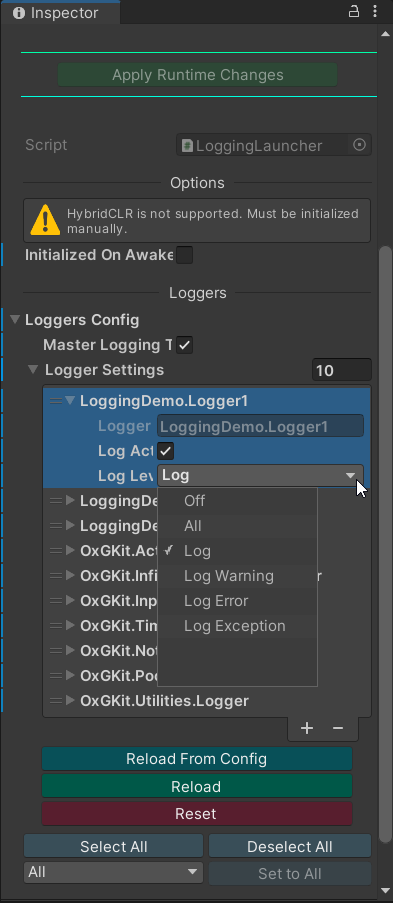
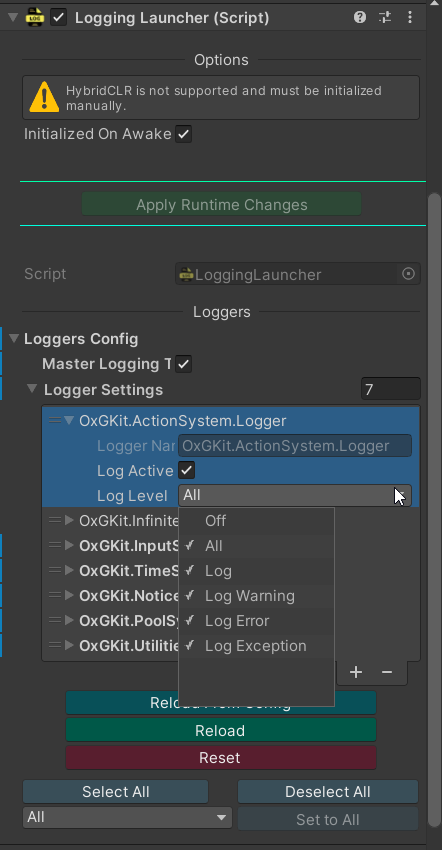
modified logging launcher editor window

diff --git a/Assets/OxGKit/LoggingSystem/Scripts/Editor/EditorWindow/LoggingLauncherEditor.cs b/Assets/OxGKit/LoggingSystem/Scripts/Editor/EditorWindow/LoggingLauncherEditor.cs
@@ -1,4 +1,5 @@
-using System;
+using DG.DemiEditor;
+using System;
 using UnityEditor;
 using UnityEngine;
 
@@ -53,10 +54,32 @@ namespace OxGKit.LoggingSystem.Editor
         {
             var loggersConfig = this._target.loggersConfig;
 
-            this.DrawRuntimeReloadButtonView(loggersConfig);
-
+            #region Section 1
+            EditorGUILayout.Space();
             EditorGUI.BeginChangeCheck();
+
+            this.serializedObject.Update();
+            this.DrawSeparator("Options", "#282828", 1);
+            Rect infoBoxRect = EditorGUILayout.GetControlRect(false, EditorGUIUtility.singleLineHeight * 2);
+            EditorGUI.HelpBox(infoBoxRect, "HybridCLR is not supported and must be initialized manually.", MessageType.Warning);
+            this._target.initLoggersOnAwake = EditorGUILayout.Toggle(new GUIContent("Initialized On Awake", "If enabled, all loggers in the application domain will be automatically detected and loaded. (HybridCLR is not supported and must be initialized manually.)"), this._target.initLoggersOnAwake);
+
+            if (EditorGUI.EndChangeCheck())
+            {
+                EditorUtility.SetDirty(this._target);
+                this.serializedObject.ApplyModifiedProperties();
+            }
+            #endregion
+
+            #region Section 2
+            this.DrawRuntimeReloadButtonView(loggersConfig);
+            #endregion
+
+            #region Section 3
+            EditorGUI.BeginChangeCheck();
+
             base.OnInspectorGUI();
+
             if (EditorGUI.EndChangeCheck())
             {
                 if (Application.isPlaying)
@@ -68,8 +91,11 @@ namespace OxGKit.LoggingSystem.Editor
                 LoggingHelper.WriteConfig(loggersConfig);
                 this._currentLoggersConfig = loggersConfig;
             }
+            #endregion
 
+            #region Section 4
             this.DrawControlButtonsView(loggersConfig);
+            #endregion
         }
 
         protected void DrawRuntimeReloadButtonView(LoggersConfig loggersConfig)
@@ -269,6 +295,12 @@ namespace OxGKit.LoggingSystem.Editor
             }
         }
 
+        /// <summary>
+        /// 繪製線條
+        /// </summary>
+        /// <param name="color"></param>
+        /// <param name="thickness"></param>
+        /// <param name="padding"></param>
         protected void DrawLine(Color color, int thickness = 1, int padding = 10)
         {
             Rect r = EditorGUILayout.GetControlRect(GUILayout.Height(padding + thickness));
@@ -277,6 +309,60 @@ namespace OxGKit.LoggingSystem.Editor
             r.x -= 2;
             r.width += 6;
             EditorGUI.DrawRect(r, color);
+        }
+
+        /// <summary>
+        /// 在 Inspector 中繪製分隔線
+        /// </summary>
+        /// <param name="title"></param>
+        /// <param name="colorHex"></param>
+        /// <param name="thickness"></param>
+        protected void DrawSeparator(string title, string colorHex, float thickness)
+        {
+            ColorUtility.TryParseHtmlString(colorHex, out Color color);
+            Texture2D t2d = MakeT2d(1, 1, color);
+
+            // 根據是否有標題決定分隔線高度
+            float separatorHeight = title.IsNullOrEmpty() ? thickness + 10 : thickness + 20;
+            Rect separatorRect = EditorGUILayout.GetControlRect(false, separatorHeight);
+
+            if (title.IsNullOrEmpty())
+            {
+                // 只有線條
+                separatorRect.height = thickness;
+                separatorRect.y += (separatorHeight - thickness) / 2; // 讓線條置中
+                GUI.DrawTexture(separatorRect, t2d);
+            }
+            else
+            {
+                // 計算標題大小
+                Vector2 textSize = GUI.skin.label.CalcSize(new GUIContent(title));
+                float separatorWidth = (separatorRect.width - textSize.x) / 2 - 5;
+
+                // 讓線條與標題垂直置中
+                float centerY = separatorRect.y + (separatorHeight - thickness) / 2;
+                float labelY = separatorRect.y + (separatorHeight - textSize.y) / 2;
+
+                GUI.DrawTexture(new Rect(separatorRect.xMin, centerY, separatorWidth, thickness), t2d);
+                GUI.Label(new Rect(separatorRect.xMin + separatorWidth + 5, labelY, textSize.x, textSize.y), title);
+                GUI.DrawTexture(new Rect(separatorRect.xMin + separatorWidth + 10 + textSize.x, centerY, separatorWidth, thickness), t2d);
+            }
+        }
+
+        /// <summary>
+        /// 生成單色紋理
+        /// </summary>
+        protected Texture2D MakeT2d(int width, int height, Color color)
+        {
+            Color[] pixels = new Color[width * height];
+            for (int i = 0; i < pixels.Length; ++i)
+            {
+                pixels[i] = color;
+            }
+            Texture2D t2d = new Texture2D(width, height);
+            t2d.SetPixels(pixels);
+            t2d.Apply();
+            return t2d;
         }
     }
 }

diff --git a/Assets/OxGKit/LoggingSystem/Scripts/Runtime/LoggingLauncher.cs b/Assets/OxGKit/LoggingSystem/Scripts/Runtime/LoggingLauncher.cs
@@ -25,11 +25,7 @@ namespace OxGKit.LoggingSystem
             return _instance;
         }
 
-        [Separator("Options")]
-        [Tooltip("If checked, all loggers in the application domain will be automatically found and loaded. (HybridCLR is not supported. Must be initialized manually.)")]
-        [InfoBox("HybridCLR is not supported. Must be initialized manually.", EInfoBoxType.Warning)]
-        [OverrideLabel("Initialized On Awake")]
-        [SerializeField]
+        [HideInInspector]
         public bool initLoggersOnAwake = true;
 
         [Separator("Loggers")]
@@ -50,16 +46,13 @@ namespace OxGKit.LoggingSystem
             }
             else
                 DontDestroyOnLoad(this.gameObject.transform.root);
+
+            // Init and read values from config
+            if (this.initLoggersOnAwake)
+                this.StartCoroutine(this._TryInitLoggers());
         }
 
         #region Logging APIs
-        private void Start()
-        {
-            // Init and read values from config
-            if (this.initLoggersOnAwake)
-                StartCoroutine(this._TryInitLoggers());
-        }
-
         /// <summary>
         /// Init all loggers
         /// </summary>
@@ -242,12 +235,12 @@ namespace OxGKit.LoggingSystem
         /// </summary>
         public void ReloadLoggersConfig(Action<LoggersConfig> result = null)
         {
-            StartCoroutine(this._ReloadLoggersConfig(false, result));
+            this.StartCoroutine(this._ReloadLoggersConfig(false, result));
         }
 
         public void ReloadFromLoggersConfig(Action<LoggersConfig> result = null)
         {
-            StartCoroutine(this._LoadLoggersConfig(result, false, false));
+            this.StartCoroutine(this._LoadLoggersConfig(result, false, false));
         }
 
         /// <summary>
@@ -255,7 +248,7 @@ namespace OxGKit.LoggingSystem
         /// </summary>
         public void ResetLoggersConfig(Action<LoggersConfig> result = null)
         {
-            StartCoroutine(this._ResetLoggersConfig(result));
+            this.StartCoroutine(this._ResetLoggersConfig(result));
         }
 
         private IEnumerator _ResetLoggersConfig(Action<LoggersConfig> result)

diff --git a/Assets/OxGKit/LoggingSystem/Scripts/CHANGELOG.md b/Assets/OxGKit/LoggingSystem/Scripts/CHANGELOG.md
@@ -1,5 +1,8 @@
 ## CHANGELOG
 
+## [1.2.1] - 2025-03-21
+- Modified LoggingLauncherEditor.
+
 ## [1.2.0] - 2025-03-21 (Breaking Changes)
 - Added new LogLevel levels.
 - Added LoggingLauncher API methods.
